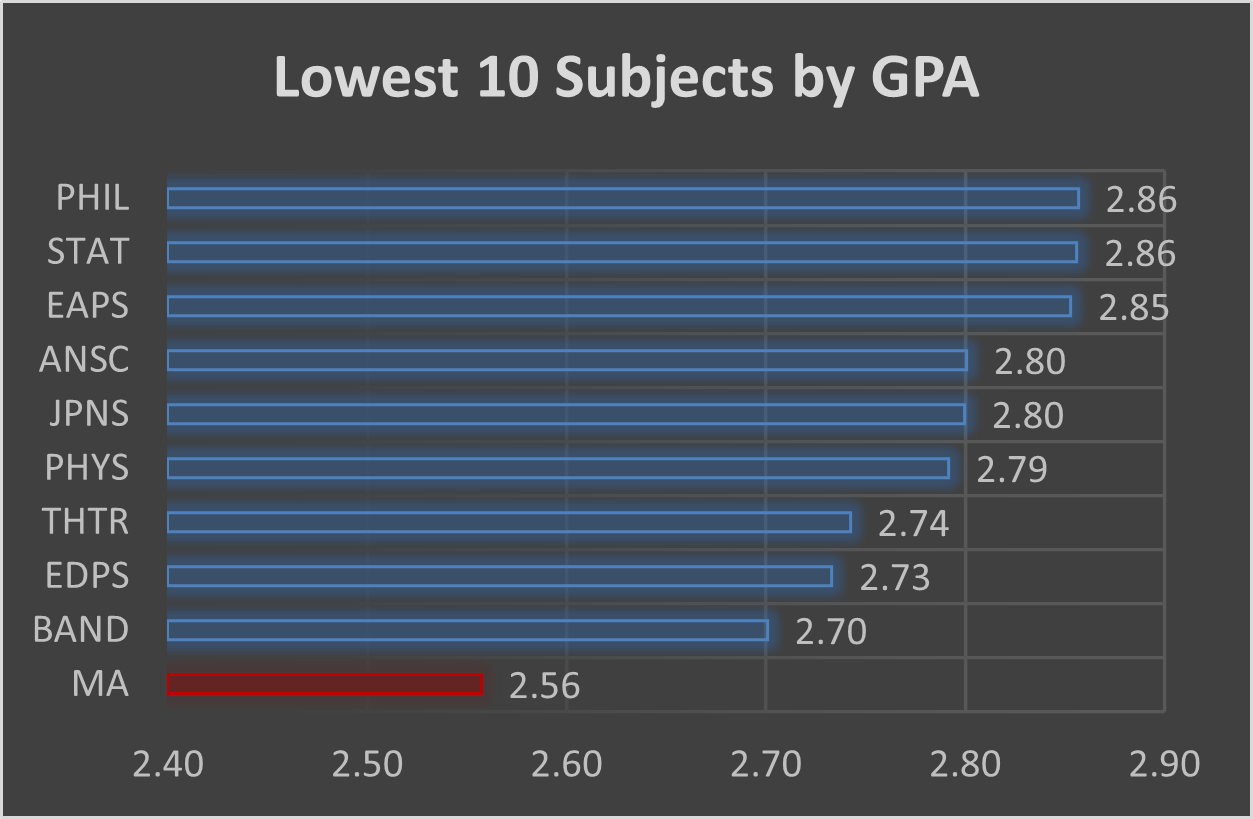
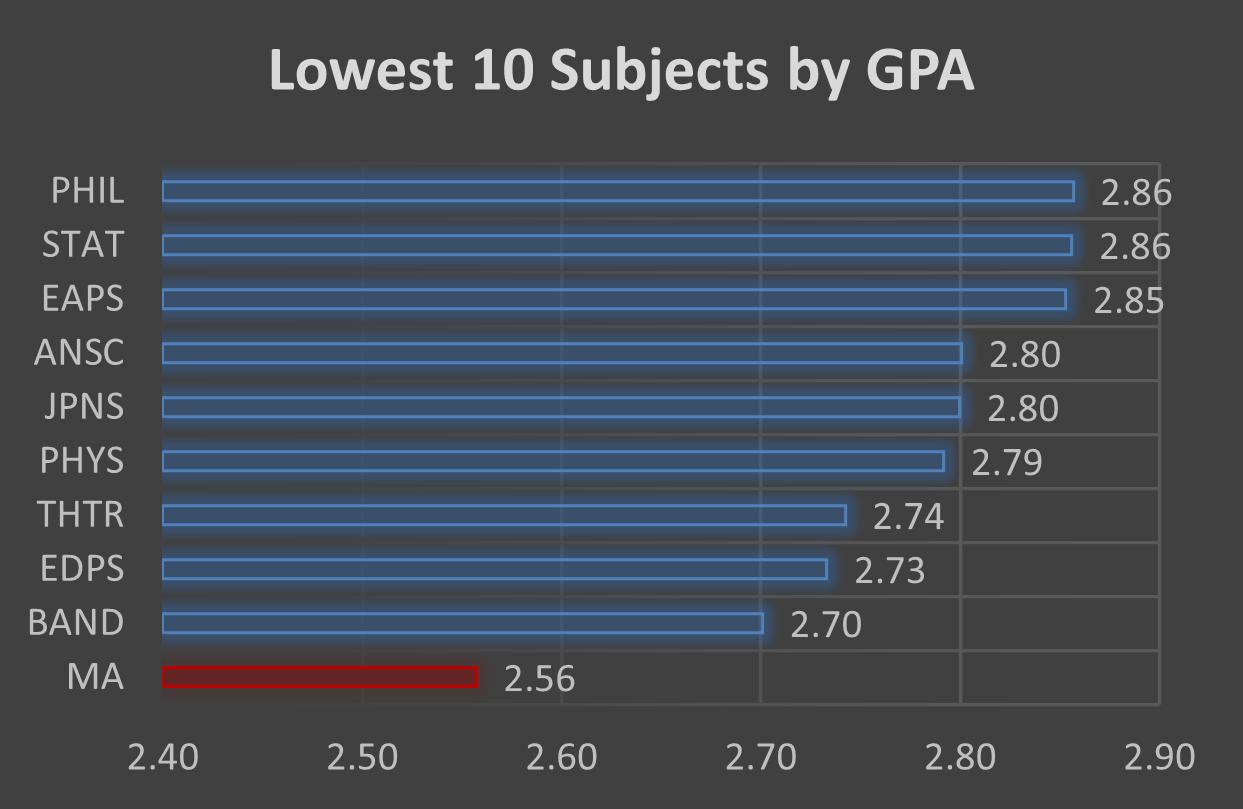
Add Insights tab

diff --git a/src/components/Insights.js b/src/components/Insights.js
@@ -7,20 +7,46 @@ export default function Insights() {
 return (
 <section id="insights" className="blur-lg text-gray-400 bg-gray-900 body-font">
       <div className="container px-5 py-10 mx-auto text-center lg:px-40">
-        <div className="flex flex-col w-full mb-20">
+        <div className="flex flex-col w-full mb-10">
           <ChartBarIcon className="mx-auto inline-block w-10 mb-4" />
           <h1 className="sm:text-4xl text-3xl font-semibold title-font mb-4 text-highlight">
             Visualizations & Insights
           </h1>
-          <p className="lg:w-2/3 mx-auto leading-relaxed text-base">
+          <p className="lg:w-2/3 mx-auto leading-relaxed text-white">
             This section serves to showcase the various visualizations that our group has created to give insight into what the 
             relationship is between GPA and numerous factors at Purdue.
           </p>
         </div>
         <div className="flex flex-wrap -m-4">
-          
+          <img 
+            className="outline-white h-96 w-192 mx-auto rounded-2xl"
+            src="/LowestCourses.png"
+          />
+        </div>
+        <div className="mt-8 lg:w-2/3 mx-auto mb-20">
+          This bar chart shows how out of all courses at Purdue with more than 100 sections, 
+          Math has 7 of the lowest 10. This includes Calculus 1 - 3, as well as linear algebra, differential equations,
+          and Plane Analytic Geometry & Calculus 1 & 2, which had the two lowest average GPAs out of all observations by a relatively large margin.
+        </div>
+
+        <div className="flex flex-wrap -m-4">
+          <img 
+            className="outline-white h-96 w-192 mx-auto rounded-2xl"
+            src="/LowestSubjects.png"
+          />
+          <img 
+            className="outline-white h-96 w-192 mx-auto rounded-2xl"
+            src="/HighestSubjects.png"
+          />
+        </div>
+        <div className="mt-8 lg:w-2/3 mx-auto mb-20">
+            These bar charts compare the top 10 subjects with the highest GPA and the bottom 10 subjects with the lowest GPA.
+            Math is the subject with the lowest average GPA of 2.56, with a 0.24 gap between it and second place, Band. The two
+             outliers with the highest GPA are Pharmacy and Nursing, which each have an average GPA of 3.69 and 3.72, respectively.
+             These two subjects are also separated by a relatively large gap of 0.25 from third place, Aviation Technology.
         </div>
       </div>
+      
     </section>
 );
 }

diff --git a/src/components/About.js b/src/components/About.js
@@ -18,7 +18,7 @@ return (
           </div>
         
           <div className="flex justify-center bg-gray-800 opacity-80 p-4 rounded-xl text-white">
-          &nbsp;&nbsp;&nbsp;&nbsp;Our group's goal is to analyze the distribution of Purdue's GPA across courses, subjects, academic terms, and professors to help Purdue 
+          &nbsp;&nbsp;&nbsp;&nbsp;Our goal is to analyze the distribution of Purdue's GPA across courses, subjects, academic terms, and professors to help Purdue 
             faculty and students better understand the difficulty and requirements of the many academic paths of the university. <br />
             &nbsp;&nbsp;&nbsp;&nbsp;This portfolio will show our group's many visualizations, insights, and our methods through the entire data visualization process.
           </div>

diff --git a/src/components/Conclusion.js b/src/components/Conclusion.js
@@ -13,7 +13,7 @@ return (
             alt="hero"
             src="./check.svg"
           />
-          <h1 className="sm:text-4xl text-3xl font-bold title-font text-highlight-light mb-4">
+          <h1 className="sm:text-4xl text-3xl font-semibold title-font text-highlight-light mb-4">
             Conclusion
           </h1>
           <p className="text-base leading-relaxed xl:w-2/4 lg:w-3/4 mx-auto">

diff --git a/tailwind.config.js b/tailwind.config.js
@@ -10,6 +10,9 @@ module.exports = {
             light: '#ddd6fe'
         }
       },
+      outline: {
+        white: '2px solid #a78bfa',
+      },
       backgroundImage: {
         'purp': "url('/img-blurred.jpg')"
       },
